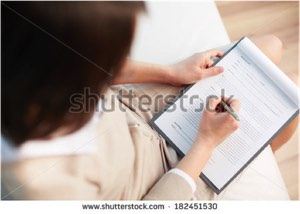
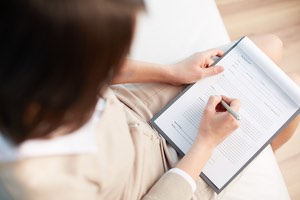
Updates images with properly licensed ones.

diff --git a/tests.html b/tests.html
@@ -38,7 +38,7 @@ title: PQA Tests
   <a href="/examples/pci.html">Example Questions</a>
 </p>
 
-<img src="/assets/images/image02.jpg" width="300" height="214" style="float: left; margin: 1em;" alt="Form filling">
+<img src="/assets/images/image02.jpg" width="300" height="200" style="float: left; margin: 1em;" alt="Form filling">
 
 <h3>Assessment format, instructions and advice</h3>
 

diff --git a/research.html b/research.html
@@ -2,7 +2,7 @@
 layout: default
 title: Current Research
 ---
-<img src="/assets/images/image03.jpg" alt="Health Word Cloud" width="300" height="218" style="float: right;">
+<img src="/assets/images/image03.jpg" alt="Health Word Cloud" width="300" height="204" style="float: right;">
 
 <p>
   Research continues into the psychology of professional ethical behaviour, and

diff --git a/faq.html b/faq.html
@@ -2,7 +2,7 @@
 layout: default
 title: PQA FAQ
 ---
-<img src="/assets/images/image05.jpg" alt="Taking notes" width="250" height="178" style="float: right; margin: 1em;">
+<img src="/assets/images/image05.jpg" alt="Taking notes" width="250" height="167" style="float: right; margin: 1em;">
 <p>
   <i>Are practice tests available?</i>
 </p>

diff --git a/index.html b/index.html
@@ -55,7 +55,7 @@ title: Personal Qualities Assessment
 </p>
 
 <p style="text-align: center;">
-  <img src="/assets/images/image01.jpg" alt="Medical Staff" width="500" height="199">
+  <img src="/assets/images/image01.jpg" alt="Medical Staff" width="500" height="178">
 </p>
 
 <h3>What is the Personal Qualities Assessment?</h3>
